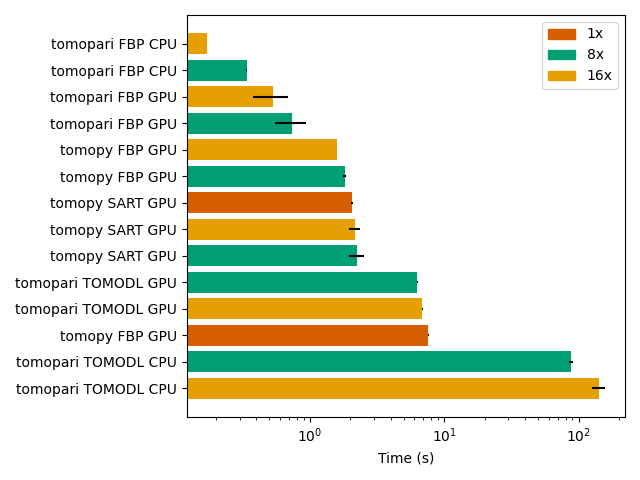
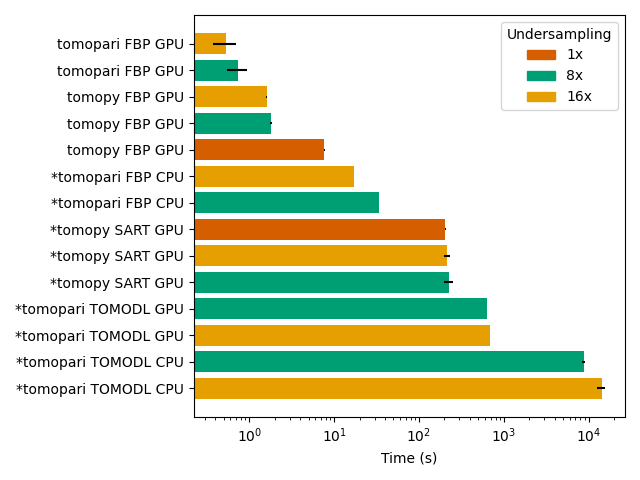
correct scaling for time benchmarks

diff --git a/benchmarks/03_plot_benchmark_time.py b/benchmarks/03_plot_benchmark_time.py
@@ -1,4 +1,5 @@
 import numpy as np
+import re
 from pathlib import Path
 from matplotlib import pyplot as plt
 
@@ -19,7 +20,8 @@ def _format_label(raw: str) -> str:
     tokens = raw.replace('-', '_').split('_')
     method_parts = tokens[2:]  # skip modality and step
     method_parts = [p for p in method_parts if p.lower() != 'stride' and not p.isdigit()]
-    return ' '.join(p.upper() if p.lower() in _ACRONYMS else p for p in method_parts if p)
+    label = ' '.join(p.upper() if p.lower() in _ACRONYMS else p for p in method_parts if p)
+    return f"*{label}" if _stride_factor(raw) > 1 else label
 
 
 def _bar_color(raw: str) -> str:
@@ -29,9 +31,14 @@ def _bar_color(raw: str) -> str:
     return _STEP_COLORS.get(step, _DEFAULT_COLOR)
 
 
+def _stride_factor(raw: str) -> int:
+    match = re.search(r"stride[-_](\d+)", raw)
+    return int(match.group(1)) if match else 1
+
+
 def _plot_times(bdict: dict, title: str, save_path: Path) -> None:
-    avg = {k: np.mean(v) for k, v in bdict.items()}
-    std = {k: np.std(v) for k, v in bdict.items()}
+    avg = {k: np.mean(v) * _stride_factor(k) for k, v in bdict.items()}
+    std = {k: np.std(v) * _stride_factor(k) for k, v in bdict.items()}
     print(f"\n{title}")
     for k, v in avg.items():
         print(f"  {k}: {v:.2f} +- {std[k]:.2f} seconds")
@@ -50,7 +57,7 @@ def _plot_times(bdict: dict, title: str, save_path: Path) -> None:
         if step in present_steps
     ]
     if legend_handles:
-        ax.legend(handles=legend_handles)
+        ax.legend(handles=legend_handles, title="Undersampling")
 
     ax.set_xscale("log")
     ax.set_xlabel("Time (s)")

diff --git a/benchmarks/02_benchmark_time_TR.py b/benchmarks/02_benchmark_time_TR.py
@@ -338,7 +338,6 @@ def run_step(step: int, benchmark_dict: dict[str, list[float]]) -> None:
     print(f"###### Processing {step} step {MODALITY_LABEL} data... ######")
 
     data, thetas = u.load_data(_dataset_path(step))
-    print('Normalized data range [0, 4095]', data.max(), data.min())
     for method in METHODS_BY_STEP[step]:
         _run_method(step, data, thetas, method, benchmark_dict)
 
